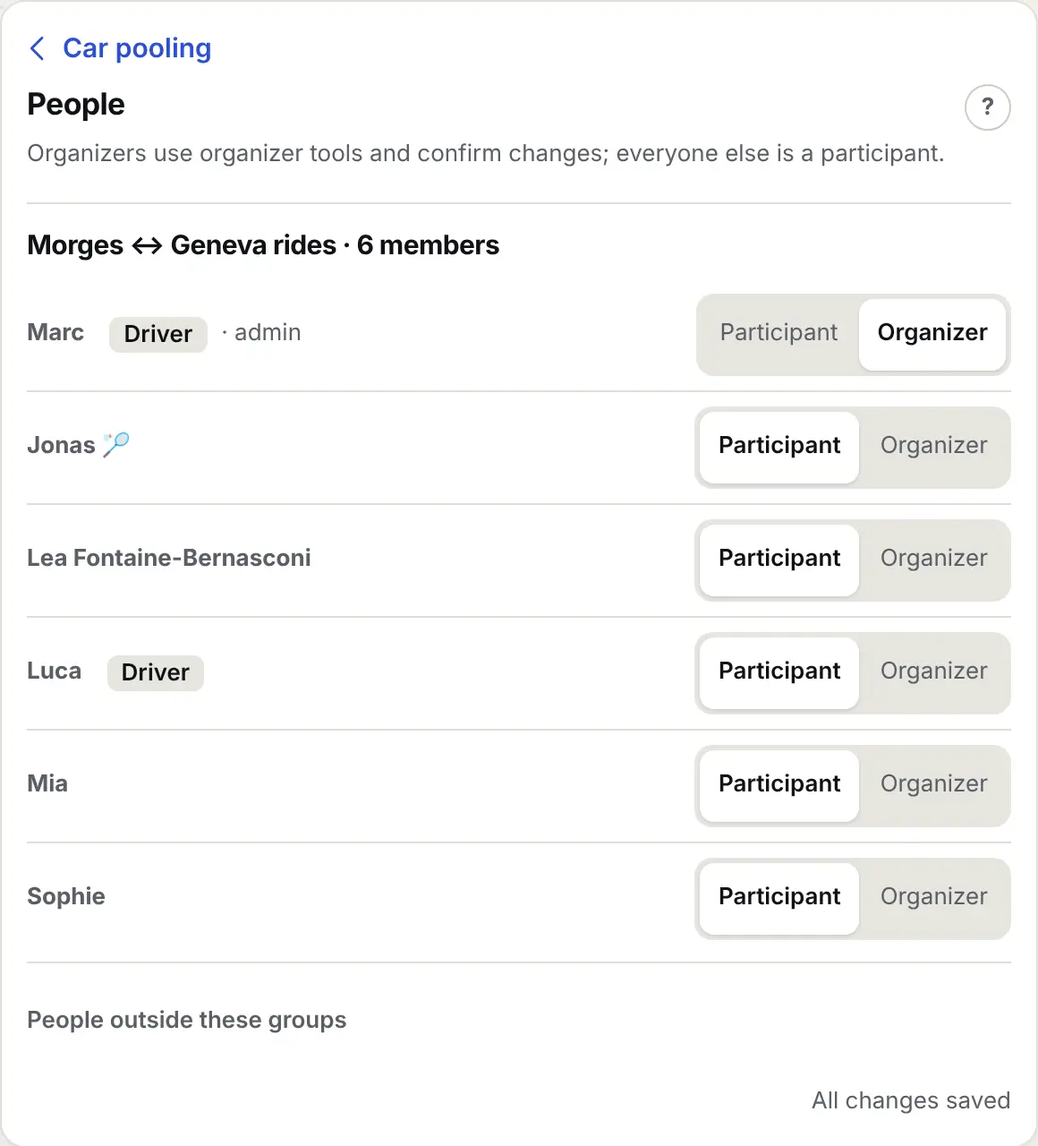
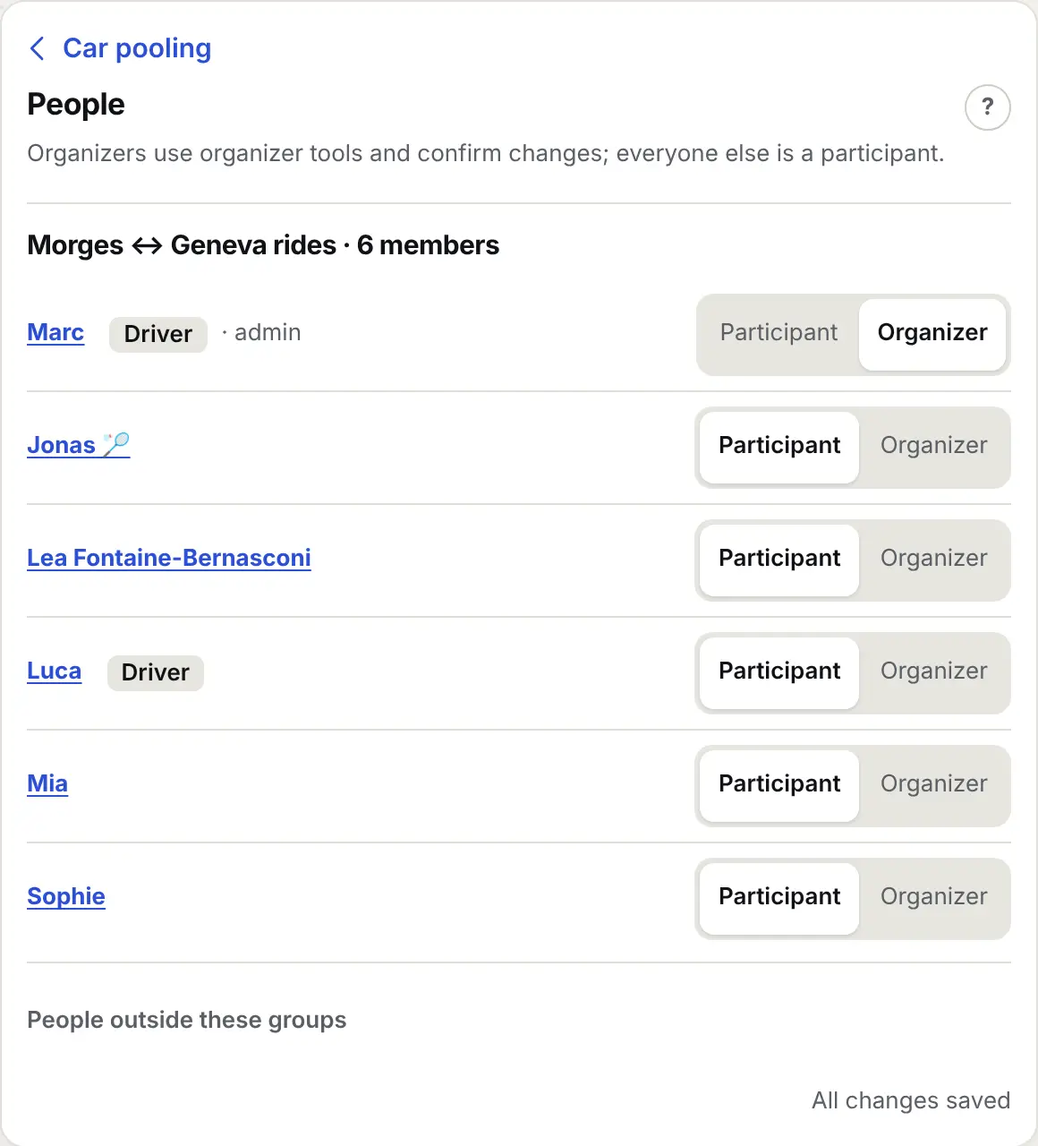
People: docs, website tile and shots, scale measurement, version 2.39.0

diff --git a/src/panel/public/app/find.js b/src/panel/public/app/find.js
@@ -47,8 +47,13 @@ async function paletteItems() {
       if (sid === 'memory' || can('admin')) items.push({ kind, label: `${title} · ${label}`, words, go: `#chats/${encodeURIComponent(c.id)}/${sid}`, icon: 'chats' });
     }
   }
-  // 073: people open their page (the first 200 by name; the Contacts screen searches all of them)
-  if (can('admin')) for (const c of await api('GET', '/api/contacts?limit=200').catch(() => [])) items.push({ kind: 'Contact', label: c.name, hint: `+${c.phone}`, words: c.note || '', go: `#contacts/${encodeURIComponent(c.phone)}`, icon: 'people' });
+  // 078: people open their page (the first 500 by name; the People screen searches all of them), then households and lists
+  if (can('admin')) {
+    const [people, sum] = await Promise.all([api('GET', '/api/people?limit=500').catch(() => []), api('GET', '/api/people/summary').catch(() => null)]);
+    for (const p of people) items.push({ kind: 'People', label: p.name, hint: p.phone ? `+${p.phone}` : p.apps.length ? '' : 'no app', words: p.nickname || '', go: `#people/${encodeURIComponent(p.id)}`, icon: 'people' });
+    for (const x of sum?.households || []) items.push({ kind: 'Household', label: x.name, words: 'family home', go: `#people/households/${encodeURIComponent(x.id)}`, icon: 'people' });
+    for (const x of sum?.lists || []) items.push({ kind: 'List', label: x.name, words: 'group people', go: `#people/lists/${encodeURIComponent(x.id)}`, icon: 'people' });
+  }
   for (const [id, title, words] of SETTINGS_SECTIONS) items.push({ kind: 'Setting', label: title, words, go: `#settings/${id}`, icon: 'settings' });
   for (const p of ['openrouter', 'anthropic', 'openai', 'chatgpt', 'copilot', 'claudecode', 'codex'].map((id) => [id, PROVIDER_NAMES[id]])) items.push({ kind: 'Model', label: p[1], words: 'provider key connect', go: `#models/${p[0]}`, icon: 'models' });
   const admin = can('admin');

diff --git a/docs/site/index.html b/docs/site/index.html
@@ -164,6 +164,16 @@
         <div class="shot"><video autoplay muted loop playsinline preload="none" poster="video/chat-on-poster.webp" width="1280" height="800" aria-label="Switching a chat on and choosing its agent"><source src="video/chat-on.mp4" type="video/mp4"></video></div>
       </article>
 
+      <article class="tile wide">
+        <span class="label">People</span>
+        <h3>Who is who: families, kids and the people around your agents.</h3>
+        <p>Everyone who writes in a chat that is on lands in <b>People</b>, one person across WhatsApp and Telegram. Add notes, tags and lists, tie people together (<i>parent of</i> reads <i>child of</i> on the other page) and group them in <b>households</b> — kids without a phone are reached through their adults. Merge duplicates in one tap with 30 days to undo; export or erase anyone. Ask the owner assistant <i>"who is Ravi's kid?"</i>.</p>
+        <div class="duo">
+          <a class="shot" href="img/card-person.webp"><img src="img/card-person.webp" width="1160" height="2302" loading="lazy" alt="Anu's page in People: partner of Ravi, parent of Vedika and Kabir, the Chary family household, notes and timeline, tags and the Christmas cards list, her direct chat and groups."></a>
+          <a class="shot" href="img/card-household.webp"><img src="img/card-household.webp" width="1160" height="832" loading="lazy" alt="The Chary family household: Anu and Ravi as adults, Kabir and Vedika as kids without an app, reached through the adults."></a>
+        </div>
+      </article>
+
       <article class="tile third">
         <span class="label">Telegram</span>
         <h3>Your Telegram groups too, with one bot.</h3>

diff --git a/src/core/people.js b/src/core/people.js
@@ -245,8 +245,9 @@ export function listPeople({ q: text = '', tag = '', list = '', household = '', 
   if (app === 'none') where.push('NOT EXISTS (SELECT 1 FROM identities i WHERE i.tenant_id = p.tenant_id AND i.person = p.id)');
   else if (app) { where.push('EXISTS (SELECT 1 FROM identities i WHERE i.tenant_id = p.tenant_id AND i.person = p.id AND i.channel = ?)'); args.push(String(app)); }
   if (shared) where.push('p.shared = 1');
-  const sql = `SELECT ${ROW} ${FROM} WHERE ${where.join(' AND ')} ORDER BY lower(label) LIMIT ? OFFSET ?`;
-  return db.prepare(sql).all(...args, Math.min(Number(limit) || 100, 500), Math.max(0, Number(offset) || 0)).map(view);
+  // the page is chosen by name first; apps and last contact are looked up for that page only
+  const sql = `SELECT ${ROW} ${FROM} WHERE p.tenant_id = ? AND p.id IN (SELECT p.id ${FROM} WHERE ${where.join(' AND ')} ORDER BY lower(${LABEL}) LIMIT ? OFFSET ?) ORDER BY lower(label)`;
+  return db.prepare(sql).all(TENANT, ...args, Math.min(Number(limit) || 100, 500), Math.max(0, Number(offset) || 0)).map(view);
 }
 /** How many people, households and lists there are, and the tags in use (with counts) for the filters. */
 export function peopleCounts() {

diff --git a/src/panel/public/app/people.js b/src/panel/public/app/people.js
@@ -7,7 +7,7 @@ let query = ''; let filter = '';
 const PAGE = 100;
 const APPS = { whatsapp: 'WhatsApp', telegram: 'Telegram' };
 const enc = encodeURIComponent;
-export const personHref = (id) => `#people/${enc(id)}`;
+const personHref = (id) => `#people/${enc(id)}`;
 const appsLine = (p) => [p.apps.map((a) => APPS[a] || a).join(' · ') || 'No app', p.lastContact ? `${ago(p.lastContact)} ago` : ''].filter(Boolean).join(' · ');
 /** One person row: avatar · name · apps and last contact · chevron (calm rows, 073). `end`: a control next to the row. */
 export const personRow = (p, sub = appsLine(p), end = null) => h('li', { class: end ? 'has-end' : null }, h('a', { class: 'lrow', href: personHref(p.id || p.person) }, avatar(p.who || p.name, p.id || p.person, 's'),

diff --git a/docs/people.md b/docs/people.md
@@ -1,0 +1,114 @@
+# People
+
+**One place for everyone around your agents: who is who, families and kids, notes, tags and lists.**
+
+**Do it:** panel → **More → People** → tap a person (or **+ Add** for someone new, a kid without a phone too).
+
+**In 30 seconds**
+- People who write in a chat that is **on** appear by themselves, one person across WhatsApp and Telegram (the same
+  phone number is the same person). Chats that are off store nobody.
+- A person's page shows their apps, **Family and ties**, **Notes and timeline**, **Tags and lists** and their chats.
+- **Households** group adults and kids. A kid without a phone is never messaged: they are reached through the adults.
+- **Merge** two entries of the same human in one tap, with 30 days to undo. **Export** or **Erase** anyone.
+- Ask the owner assistant *"who is Ravi's kid?"* or *"which household is Mia in?"*.
+
+![Anu's page: partner of Ravi, parent of Vedika and Kabir, the Chary family, notes, tags and lists, her chats](site/img/card-person.webp)
+
+## The People screen
+
+- **People · Households · Lists** sit at the top; each is a list, and a row opens its page (`#people/<id>`,
+  `#people/households/<id>`, `#people/lists/<id>`).
+- One row per person: name, their apps (*WhatsApp · Telegram*, or *No app*) and the last contact.
+- **Search** finds names (yours, phone contact, business, profile), nicknames, numbers, tags and notes. **Show**
+  filters by app (*No app* finds the kids), tag, list or household.
+- The line under the search says how many names came from your phone; **Refresh** is optional (it happens by itself
+  after a number connects, then daily). **Agents may use the names from your phone contacts** (owner, on by default):
+  switch it off if your address book holds private labels; agents then see business or profile names.
+- Press **/** anywhere: Find anything lists people, households and lists too.
+
+> [!NOTE]
+> Your phone's address book never adds anyone to People: it only gives names. A person comes in when they write in a
+> chat that is on, or when you add them.
+
+## A person's page
+
+**Header:** name, number, apps, nickname, birthday, *in People since* and the last contact. **⋯** holds **Edit…**
+(name, nickname, number, birthday, *Shared*), and for the owner **Merge…**, **Export** and **Erase…**.
+
+- **Shared:** participants may look this person up through agents (the agents' *find contact* tool). Organizers see
+  everyone.
+- **Their chats:** the direct chat (or **Set up a direct chat**) and the groups they wrote in. A direct chat's page links
+  back with **Person page ›**; names in a chat's *Messages* and in group member lists open the person too.
+- **Apps:** each app account with the name it showed and since when.
+
+A number that wrote in a chat but is not in People (for example before you switched the chat on) still has a page with
+**Add to People**.
+
+## Family and ties
+
+**Add a tie** → choose *Parent of*, *Child of*, *Partner of*, *Sibling of*, *Works with* or *Something else…* (your own
+word and its other side, e.g. *Godmother of* / *Goddaughter of*) → find the person → **Add tie**.
+
+Each tie reads right from both pages: *Anu · Parent of Vedika* shows as *Child of Anu* on Vedika's page. **×** removes
+a tie from both.
+
+## Households
+
+1. **Households → + New** (e.g. *Chary family*, an address if you like), or **Add to a household** on a person's page.
+2. **Add a person** and choose **Adult** or **Kid**. A person can be in several households (parents who live apart,
+   grandparents).
+3. A household's page lists adults first, then kids; a kid without any app shows *reached through the adults*.
+
+> [!IMPORTANT]
+> A person without an app (a kid) has no chat, so no agent can ever message them. Their page says who reaches them:
+> the adults of their households who have an app.
+
+## Notes and timeline
+
+- Write a note and tap **Add note**. Notes show who wrote them: you (your user name) or *Agent* (an AI assistant or the
+  owner assistant through the admin tools).
+- Agent notes never hold message text: a note that copies one of the person's stored messages is refused, unless your
+  logging policy keeps message contents (*verbose*, [Privacy](privacy.md)).
+- The timeline also shows what happened: added to People, joined a household, merged, merge undone. Later modules
+  (events, orders, surveys) will write here too.
+
+## Tags and lists
+
+- **Tags** are free words (*badminton*, *driver*): type one and press Enter; **×** removes it. They save at once.
+- **Lists** are named groups you fill by hand (*Badminton Tuesdays*, *Christmas cards*): **Lists → + New**, then
+  **Add a person**, or **Add to a list** on a person's page.
+
+## Merge, export, erase
+
+- **Merge…** (owner): choose the other entry of the same human; their apps, notes, ties, households, tags and lists
+  move here. The page then offers **Undo merge** for 30 days. When there is evidence (a verified phone number of one
+  person belongs to the other), the page suggests the merge: one tap.
+- **Export** (owner) downloads everything stored about the person as JSON: their page, names, notes, ties, households,
+  tags, lists and their stored messages.
+- **Erase…** (owner, type *erase*): deletes their stored messages in every chat, their direct chat's memory, notes,
+  ties, household memberships, tags, list entries and app accounts. The activity log keeps only counts. If they write
+  again in a chat that is on, they come back as a new person.
+
+## From Contacts to People
+
+Up to version 2.38 saved names, notes and *Shared* lived on a **Contacts** screen. On the first start of 2.39 they
+move into People by themselves: each saved name and *Shared* goes to the person with that number, and each note becomes
+a note on their timeline. Nothing to do; old `#contacts` links open People.
+
+## AI assistants and the owner assistant
+
+Admin MCP tools ([Manage from ChatGPT or Claude](admin-mcp.md)): `list_people`, `get_person`, `add_person`,
+`update_person`, `add_person_note`, `set_person_tie`, `remove_person_tie`, `set_person_tags`, `merge_people`* ,
+`undo_merge`*, `export_person`, `erase_person`*, `list_households`, `get_household`, `save_household`,
+`set_household_member`, `list_people_lists`, `save_people_list`, `set_list_member`, `people_names_status`,
+`refresh_contact_names`, `set_contact_names_for_agents`* (* needs `confirm_action`).
+
+The [owner assistant](owner-assistant.md) uses the same tools: it reads People directly and every change waits for
+your confirmation.
+
+> [!NOTE]
+> In this release agents in chats keep their *find contact* tool and see only what you shared. Agent tools for People
+> (who is writing, their household) come in a later step.
+
+---
+**Next:** [Chats](chats.md) · [Privacy](privacy.md) · [Docs index](README.md)

diff --git a/docs/chats.md b/docs/chats.md
@@ -1,4 +1,4 @@
-# Chats, contacts and direct messages
+# Chats and direct messages
 
 **Choose where agents may speak: every group and person starts off, one switch turns a chat on.**
 
@@ -7,7 +7,7 @@
 **In 30 seconds**
 - Chats that are **off** are dropped before storage and before any model ([Privacy](privacy.md)).
 - Switching a chat on picks its agent, posts the privacy notice once and loads recent messages from your phone.
-- **Add a direct chat** sets up a person before they write. Names come from your phone's contacts.
+- **Add a direct chat** sets up a person before they write. Names come from your phone's contacts and [People](people.md).
 - The owner can search what was said in every chat that is on: press **/** and type.
 - [Telegram](telegram.md) groups and people are listed the same way, with *Telegram* in their line.
 
@@ -84,8 +84,8 @@ chat's newest message). When you switch a chat **on**, the server asks your phon
 
 ## Set up a direct chat before the person writes
 
-1. **Chats → Add a direct chat** (or **Contacts → the person → Set up a direct chat**).
-2. Enter the number with country code (`+41 79 123 45 67`) or pick a contact; pick the WhatsApp number if you have
+1. **Chats → Add a direct chat** (or **People → the person → Set up a direct chat**).
+2. Enter the number with country code (`+41 79 123 45 67`) or pick someone in People; pick the WhatsApp number if you have
    several.
 3. Choose the agent, **On** and, if you like, **Private to members** → **Set up chat**.
 
@@ -101,23 +101,11 @@ settings stay together.
 People who write to an agent number privately get the agent chosen for that number
 ([Connect WhatsApp](whatsapp.md#settings--channels--whatsapp)); a person can be given another agent on their chat's page.
 
-## Contacts
+## Names and people
 
-**Contacts** lists the names synced from the linked phone(s) plus your own entries with notes. Agents look people up
-(`contacts__find_contact`): participants only see contacts marked **Shared**; organizers see all and can save or
-remove entries.
-
-- Phone contact names **refresh by themselves** (after a number connects, then daily). **Refresh now** is optional.
-- **Agents may use the names from your phone contacts** (owner, on by default): switch it off if your address book
-  holds private labels ("Raj plumber, don't answer"); agents then see business or profile names.
-- Each person has a **page** (tap the row, or `#contacts/<number>`): name, number and where the name comes from, the
-  note, **Shared**, their **direct chat** with its agent (or **Set up a direct chat**) and the **groups they wrote
-  in**, each opening the chat. A direct chat's page links back with **Contact page ›**. People who wrote but are not
-  saved have a page too (**⋯ → Save as contact…**). **⋯** holds **Edit…** and **Remove…**.
-- Admin MCP: `list_contacts`, `get_contact` (a person's page), `save_contact`, `remove_contact`, `contact_names_status`,
-  `refresh_contact_names`, `set_contact_names_for_agents`.
-
-![A person's page: name and number, Shared, their direct chat with its agent and the groups they wrote in](site/img/card-person.webp)
+Everyone who writes in a chat that is on is in [People](people.md): their page, family and ties, households, notes,
+tags and lists. A direct chat's page links there with **Person page ›**, and names in a chat's *Messages* and in group
+member lists open the person too.
 
 ### Which name is shown
 
@@ -131,7 +119,7 @@ picks a person's name:
 
 1. If WhatsApp shows the person only by a hidden id (LID), look up the number WhatsApp shared for it (the pair can
    arrive later; names are matched up then).
-2. Use the first name known: the name you set in Duniya, then the phone contact name (your address book), then a
+2. Use the first name known: the name you set in People, then the phone contact name (your address book), then a
    WhatsApp Business name, then the profile name the person chose.
 3. Otherwise show `+number`, or *Unknown (hidden number)* when WhatsApp hides it.
 4. Member tags are kept per group (chats that are on only), from each message the person sends, tag changes and

diff --git a/docs/development.md b/docs/development.md
@@ -76,7 +76,7 @@ The panel is one dependency-free app in native ES modules: no framework, no bund
 | `app/core.js` | `h()` (untrusted text only through `textContent`), `api()` and its cache, the shared state `S`, the shared components (`ask()` confirmation, `toast()`, `field()`, `toggle()`, `avatar()`, `emptyState()`, `skeleton()`), the shell: top tabs and the phone tab bar, router (`show()`), live stream |
 | `app/login.js` | sign-in, first-run setup, one-time sign-up and secret links |
 | `app/shared.js` | small helpers several screens use (formatting, model picker, usage line, server size, links) |
-| `app/<screen>.js` | one module per screen: `overview`, `chats`, `agents` + `agent-editor`, `activity`, `usage`, `models`, `contacts`, `pending`, `server`, `backups`, `settings`; parts: `start` (Getting started), `ask` (the Ask card), `quiet`, `updates`, `find` (Find anything and the phone's More sheet), `fallback`, `tool-editor`, `registry`, `ai-helper`, `diff`, `channels` (Settings → Channels and a channel's page) |
+| `app/<screen>.js` | one module per screen: `overview`, `chats`, `agents` + `agent-editor`, `activity`, `usage`, `models`, `people` + `people-groups` (Households and Lists), `pending`, `server`, `backups`, `settings`; parts: `start` (Getting started), `ask` (the Ask card), `quiet`, `updates`, `find` (Find anything and the phone's More sheet), `fallback`, `tool-editor`, `registry`, `ai-helper`, `diff`, `channels` (Settings → Channels and a channel's page) |
 | `app/styles.css` | all styles, one set of tokens ([DESIGN.md](../DESIGN.md#tokens-064)) |
 | `page.css`, `page.js` | the standalone server pages (sign-in results, Google address help, GitHub app hand-off): files, so their CSP needs no `'unsafe-inline'` |
 
@@ -99,7 +99,7 @@ The panel is one dependency-free app in native ES modules: no framework, no bund
 
 ## Panel server
 
-Routes live in `src/panel/routes/<area>.js` (`auth`, `status`, `agents`, `chats`, `contacts`, `system`, and one per
+Routes live in `src/panel/routes/<area>.js` (`auth`, `status`, `agents`, `chats`, `people`, `system`, and one per
 feature), each exporting `<area>Routes(route, { channel })`. `src/panel/server.js` registers them in one place and keeps
 only the router (role gates, the JSON-only CSRF guard), the admin MCP's in-process calls and the static files. A handler
 returns the JSON answer, `[status, answer]`, or throws `fail(message, status)` / `bad(message, field)`
@@ -154,7 +154,7 @@ on, and the hub and the catalogue answer from the chat id.
 
 `npm run measure:scale` (dev only, `scripts/measure-scale.mjs`) runs the real core and panel through the test fakes
 against a seeded data directory: **300 chats (20 on) over 3 numbers, 30 agents, 200 000 stored messages over 80 days,
-50 000 activity entries, 20 000 usage rows, 5 000 contacts**. It prints startup in a fresh process pinned to one CPU
+50 000 activity entries, 20 000 usage rows, 5 000 people with phone contact names**. It prints startup in a fresh process pinned to one CPU
 (`taskset -c 0`, `--max-old-space-size=700`), panel API latencies (median / p95 of 15), live-stream fan-out to 20
 panels, router throughput, a retention pass, one backup, the database size and the query plans of the hot queries.
 `--small` runs a tenth of the fixture. Run it before and after a change that touches the database, the router or the
@@ -168,7 +168,7 @@ Before and after 069 (#143), same machine:
 | Router: stored, not addressed | 257 msg/s | 970 msg/s (3.8×) |
 | Router: chat off | 1 923 msg/s | 11 250 msg/s (5.9×) |
 | Router: answered by the fake model | 64 msg/s | 240 msg/s (3.8×) |
-| Panel API (status, chats, agents, activity pages, contacts) | 1–7 ms median | 1–7 ms median (Health 1 ms) |
+| Panel API (status, chats, agents, activity pages, people) | 1–7 ms median | 1–7 ms median (Health 1 ms) |
 | Usage by day, all time | 21 ms | 21 ms |
 | Activity for one chat / age prunes | `SCAN activity` / `SCAN messages` | index searches |
 | Retention (messages kept 30 days) | pruned on the write path | 125 000 rows in 63 upkeep ticks, ≤ 102 ms each |

diff --git a/docs/admin-mcp.md b/docs/admin-mcp.md
@@ -74,7 +74,7 @@ rotation). Spec: [`specs/017-admin-mcp/`](../specs/017-admin-mcp/spec.md).
 | Agents | review (`list_agent_answers`: recent answers with the question and their 👍/👎; `rate_agent_answer`; fix a wrong one with `draft_agent_with_ai` + `update_agent`), create, update (also the built-in `owner-assistant`: character, model, tools, photos & voice, schedules incl. the weekly summary, `alerts.to` — owner only; it is marked `builtin` and cannot be deleted or assigned), draft with AI, test (`test_agent` says which path answered: quick reply, FAQ or model), export, enable, built-in answers without AI (`set_agent_quick_answers`: quick replies, `!help`, welcome, FAQ) |
 | Chats | assign, settings (model, fallback mode and chain, logging, welcome new members; `list_chats` leaves out settings at their default), private, privacy notice, stored messages (`list_chat_messages`: each answer with its agent and rating; `around_id` opens them at one answer), `search_messages` (owner: across every chat that is on and not private), `load_chat_history` (Load earlier from your phone, optional: unanswered loads retry by themselves; the owner assistant runs it without a confirm code), `set_history_on_switch_on`, prepare a direct chat before the person writes (`prepare_direct_chat`; confirmed when `send_intro` is set), first message by the agent (`send_chat_intro`, confirmed) |
 | Money | usage, prices, spending caps, weekly summary preview (alerts number and schedule: `update_agent` on `owner-assistant`) |
-| People & memory | contacts (`get_contact`: one person's page — name, note, their direct chat and the groups they wrote in; `contact_names_status`; `refresh_contact_names`, `set_contact_names_for_agents`, optional — names refresh by themselves), memory, WhatsApp groups, WhatsApp numbers, users |
+| People & memory | [People](people.md) (`list_people`, `get_person`: one person's page — apps, ties, households, notes and timeline, tags, lists, their chats; `add_person`, `update_person`, `add_person_note`, `set_person_tie`, `remove_person_tie`, `set_person_tags`, `merge_people`, `undo_merge`, `export_person`, `erase_person`; households: `list_households`, `get_household`, `save_household`, `set_household_member`; lists: `list_people_lists`, `save_people_list`, `set_list_member`; names: `people_names_status`, `refresh_contact_names`, `set_contact_names_for_agents`, optional — names refresh by themselves), memory, WhatsApp groups, WhatsApp numbers, users |
 | Channels | `list_channels` (state, numbers or bot connected, memory used, the Telegram bot's name and privacy mode), `set_channel_enabled` (switching a channel off needs `confirm_action`), `set_telegram_dm_agent`; connect Telegram with `set_secret` `TELEGRAM_BOT_TOKEN` (one-time link) |
 | Models | models, accounts (`list_model_accounts` with each account's health: paused until when and why, e.g. a usage limit; for [agent apps](models.md#agent-apps) also whether the app is downloaded and its measured memory), fallback, photos & voice. Agent apps are connected by the owner in the panel (their own sign-in) |
 | Tools | global tool services, browse and add from the MCP Registry (`search_mcp_registry`, `add_tool_service_from_registry`), secrets, confirmations, logging |

diff --git a/docs/privacy.md b/docs/privacy.md
@@ -45,7 +45,8 @@ context…" (edit under **Settings → Privacy notice**).
 | **Stored messages** | only chats that are on, for memory, with retention limits (90 days and 5 000 per chat by default, pruned every hour; **Server → Health**). Switching a chat on loads its recent messages from your phone ([Agents → Earlier messages](chats.md#earlier-messages-when-a-chat-is-switched-on)). Admins and owners can read them; every look is in the activity log. Erase a chat's memory with one click |
 | **Search messages** | the owner only, over chats that are on and not *Private to members*; each search is in the activity log with its words and the number found, never message text ([Agents → Chats](chats.md#search-messages-owner)) |
 | **Answer ratings** | 👍 / 👎 on an agent's answers (*Review*): who rated and when, no copy of the text; gone with the answer. Answers in private chats are not shown ([Review and teach](agents.md#review-and-teach)) |
-| **Names and member tags** | phone contact, business and profile names from your linked phone (Contacts; agents use the same name you see, phone contact names included, unless you switch that off on the Contacts page); group member tags only for chats that are on, erased with the chat's memory ([Agents → Contacts](chats.md#which-name-is-shown)) |
+| **People** | a person is stored only when they write in a chat that is on, or when you add them: their app ids and phone, the name their app showed, and what you add (name, nickname, birthday, ties, households, notes, tags, lists). Agent notes never copy message text unless the activity log is *verbose*. Export or erase anyone on their page; erase removes their stored messages too ([People](people.md#merge-export-erase)) |
+| **Names and member tags** | phone contact, business and profile names from your linked phone (they name people but never add anyone to People; agents use the same name you see, phone contact names included, unless you switch that off on the People screen); group member tags only for chats that are on, erased with the chat's memory ([Agents → Contacts](chats.md#which-name-is-shown)) |
 | **Telegram phone numbers** | a person's phone is stored with their Telegram id only when they share their own contact with the bot (*Share my number*); it joins them to the same person as on WhatsApp ([Telegram](telegram.md#share-my-number-one-person-on-both-apps)). A contact someone else forwards is never used |
 | **Chats that are off** | the id, time and sender id of the newest message only (no text, no names), to ask the phone for history later |
 | **Activity log** | minimal, normal or verbose, by category and per chat, with retention. Errors, confirmations, configuration changes and channel status are always recorded |

diff --git a/DESIGN.md b/DESIGN.md
@@ -197,7 +197,7 @@ it for the names its API returns, and panel modules import it.
   on the provider's page.
 - Accounts: the provider's name, with the label only when there are several accounts: "ChatGPT · work".
 - Chats: their name, never an id — a group's WhatsApp subject (remembered; *Unnamed group* until known), a person's
-  name from the contacts resolver (else *+number* or *Unknown (hidden number)*). One server resolver,
+  name from the one names resolver: own name in People, phone contact, business, profile (else *+number* or *Unknown (hidden number)*). One server resolver,
   `src/core/chat-names.js` (`chatLabel`, `chatLabels`, `withChatNames`); every API that lists chats returns `chatName`
   (silences, activity and the live stream, pending, usage, caps, Review, search, admin MCP, owner assistant) (073).
 - Models: as people know them ("GPT-5.5", "Claude Sonnet 4.5"). The provider's own display name wins; a raw id is
@@ -265,9 +265,15 @@ The same thing looks and behaves the same wherever it appears, and every place l
 - **Breakdowns** (Usage) are one card with a `seg` over rows: name (its page) · calls and tokens muted · cost right ·
   ⋯ for the row's rare action. Details tables become muted summary lines with a *Details* disclosure (Server → Health,
   This server); Logs start as one row and load when opened.
-- **A person's page** (`#contacts/<phone>`): header (avatar, name, *+number · where the name comes from*, ⋯ Edit /
-  Remove), note, Shared, then rows: their direct chat (or *Set up a direct chat*) and the groups they wrote in. A
-  direct chat's page links back (*Contact page ›*).
+- **A person's page** (`#people/<id or number>`, 078): header (avatar, name, *+number · apps · nickname*, one muted
+  line with birthday, since and last contact, ⋯ Edit / Merge / Export / Erase), then hairline groups: *Family and
+  ties* (a tie is one row that reads as a sentence from this page, "Parent of Vedika", with the other person's avatar
+  and a × to remove; households as rows; *Add a tie* and *Add to a household* as the last rows), *Notes and timeline*
+  (a note box, then notes and muted events, newest first; agent notes say *Agent*), *Tags and lists* (the shared
+  `tagInput()` from `tags.js`, saves at once; lists as rows), their chats, their apps. Merge suggestions and *Undo
+  merge* are one line with a `.qfix` link. A person without an app says who reaches them instead of offering a chat.
+- **People · Households · Lists** (078): one small switch (`.seg.pnav`, links) at the top of the three lists; each
+  row opens a page with a back link; a household lists adults, then kids.
 
 ## Standalone pages (064, 070)
 

diff --git a/specs/078-people-core/tasks.md b/specs/078-people-core/tasks.md
@@ -1,13 +1,13 @@
 # 078 · Tasks
 
-- [ ] T1 Issue #172, spec folder, plan comment
-- [ ] T2 Core tables and person functions (people.js): person fields, identities name, ties, households, notes/timeline, tags, lists, search
-- [ ] T3 Ops (people-ops.js): merge + undo (30 days, pruned on the upkeep tick), export, erase, contacts migration
-- [ ] T4 Contacts module reduced to phone names (book/business/profile, LIDs); own names from People; contacts agent tools read People
-- [ ] T5 Panel API routes/people.js (people, households, lists); routes/contacts.js removed
-- [ ] T6 Panel: People screen, person page, Households, Lists; Find anything; links from chats, messages, group members; #contacts → #people
-- [ ] T7 Admin MCP people tools (risky: merge, undo, erase); owner assistant prompt; docs/admin-mcp.md
-- [ ] T8 Tests with fakes: creation only from chats that are on, ties with inverse, households with a kid, tags/lists, merge + undo, export, erase, migration, API roles, owner assistant, admin MCP
-- [ ] T9 Demo panel seeded with people, households, lists; responsive states; site shots retaken
-- [ ] T10 Docs: people.md, README index, contacts wording, README highlights, website tile, DESIGN.md
-- [ ] T11 Version (minor), releases.json; all checks; PR; merge; done comment
+- [x] T1 Issue #172, spec folder, plan comment
+- [x] T2 Core tables and person functions (people.js): person fields, identities name, ties, households, notes/timeline, tags, lists, search
+- [x] T3 Ops (people-ops.js): merge + undo (30 days, pruned on the upkeep tick), export, erase, contacts migration
+- [x] T4 Contacts module reduced to phone names (book/business/profile, LIDs); own names from People; contacts agent tools read People
+- [x] T5 Panel API routes/people.js (people, households, lists); routes/contacts.js removed
+- [x] T6 Panel: People screen, person page, Households, Lists; Find anything; links from chats, messages, group members; #contacts → #people
+- [x] T7 Admin MCP people tools (risky: merge, undo, erase); owner assistant prompt; docs/admin-mcp.md
+- [x] T8 Tests with fakes: creation only from chats that are on, ties with inverse, households with a kid, tags/lists, merge + undo, export, erase, migration, API roles, owner assistant, admin MCP
+- [x] T9 Demo panel seeded with people, households, lists; responsive states; site shots retaken
+- [x] T10 Docs: people.md, README index, contacts wording, README highlights, website tile, DESIGN.md
+- [ ] T11 Version 2.39.0, releases.json; all checks; PR; merge; done comment

diff --git a/docs/owner-assistant.md b/docs/owner-assistant.md
@@ -65,7 +65,7 @@ confirmation setup; its *Try it* section is the Ask box). It adds **Alerts**. Th
 | Sending into another chat | `send_message` or a WhatsApp action with the chat's name; always `confirm CODE` | never |
 | Pictures | as set under Photos & voice | as set (participants) |
 
-- **Other chats:** only chats that are on and not private, by group name, contact name or id. A chat switched off
+- **Other chats:** only chats that are on and not private, by group name, person name or id. A chat switched off
   before you confirm gets nothing. A person who never saw the privacy line gets it once with the first message.
 - **Tool services:** a tool called `confirm` (or `…_confirm`, `confirm_…`) or marked destructive is held for your code.
 - **Secrets never pass through the chat:** "set the OpenAI key" gives you a one-time link (15 minutes) to paste it in
@@ -92,7 +92,8 @@ confirmation setup; its *Try it* section is the Ask box). It adds **Alerts**. Th
 | **Audit** | every question and action is in Activity (`owner.*`, `whatsapp.action`, always recorded), in plain words: "Checked maintenance status · via admin" (the tool's name is in the entry's details) |
 | **API** | `POST /api/owner/ask` (whole answer) or `POST /api/owner/ask/stream` (newline-delimited JSON: `step` (`thinking`, `calling` before a tool runs, `tool`, `held`), `delta`, `restarted`, `text`, `done`, `error`; closing the request stops the answer; see below); the record is `GET`/`PUT /api/agents/owner-assistant` |
 | **Admin MCP** | `get_owner_assistant` (link), `get_agent` / `update_agent` / `run_schedule_now` with `owner-assistant`, `preview_weekly_summary`, `set_chat_private` |
-| **People who never wrote** | "assign Mochi to Vedika" works in one go: it looks up the contact and prepares the direct chat (`prepare_direct_chat`, see [Agents](chats.md#set-up-a-direct-chat-before-the-person-writes)); you confirm once |
+| **People** | "who is Ravi's kid?", "which household is Mia in?": it reads [People](people.md) (`list_people`, `get_person`); ties, households, notes and tags change only after your confirmation |
+| **People who never wrote** | "assign Mochi to Vedika" works in one go: it finds the person in [People](people.md) and prepares the direct chat (`prepare_direct_chat`, see [Agents](chats.md#set-up-a-direct-chat-before-the-person-writes)); you confirm once |
 
 <details>
 <summary>Streamed answers: the events</summary>
